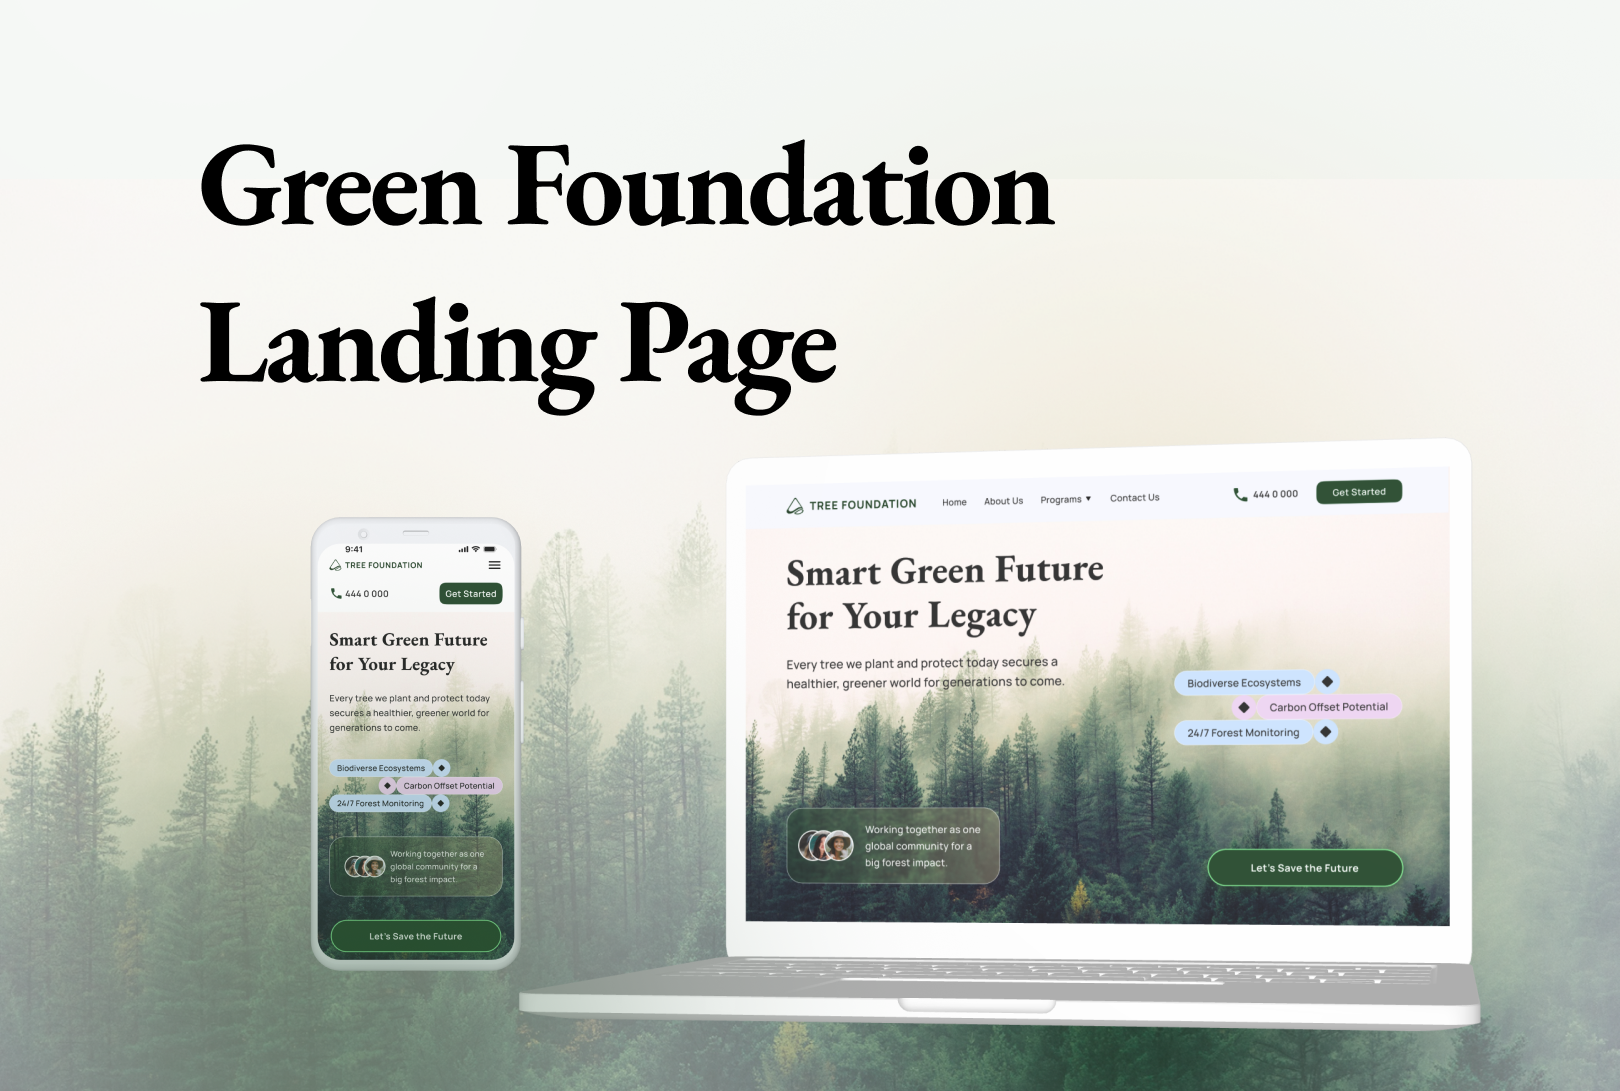
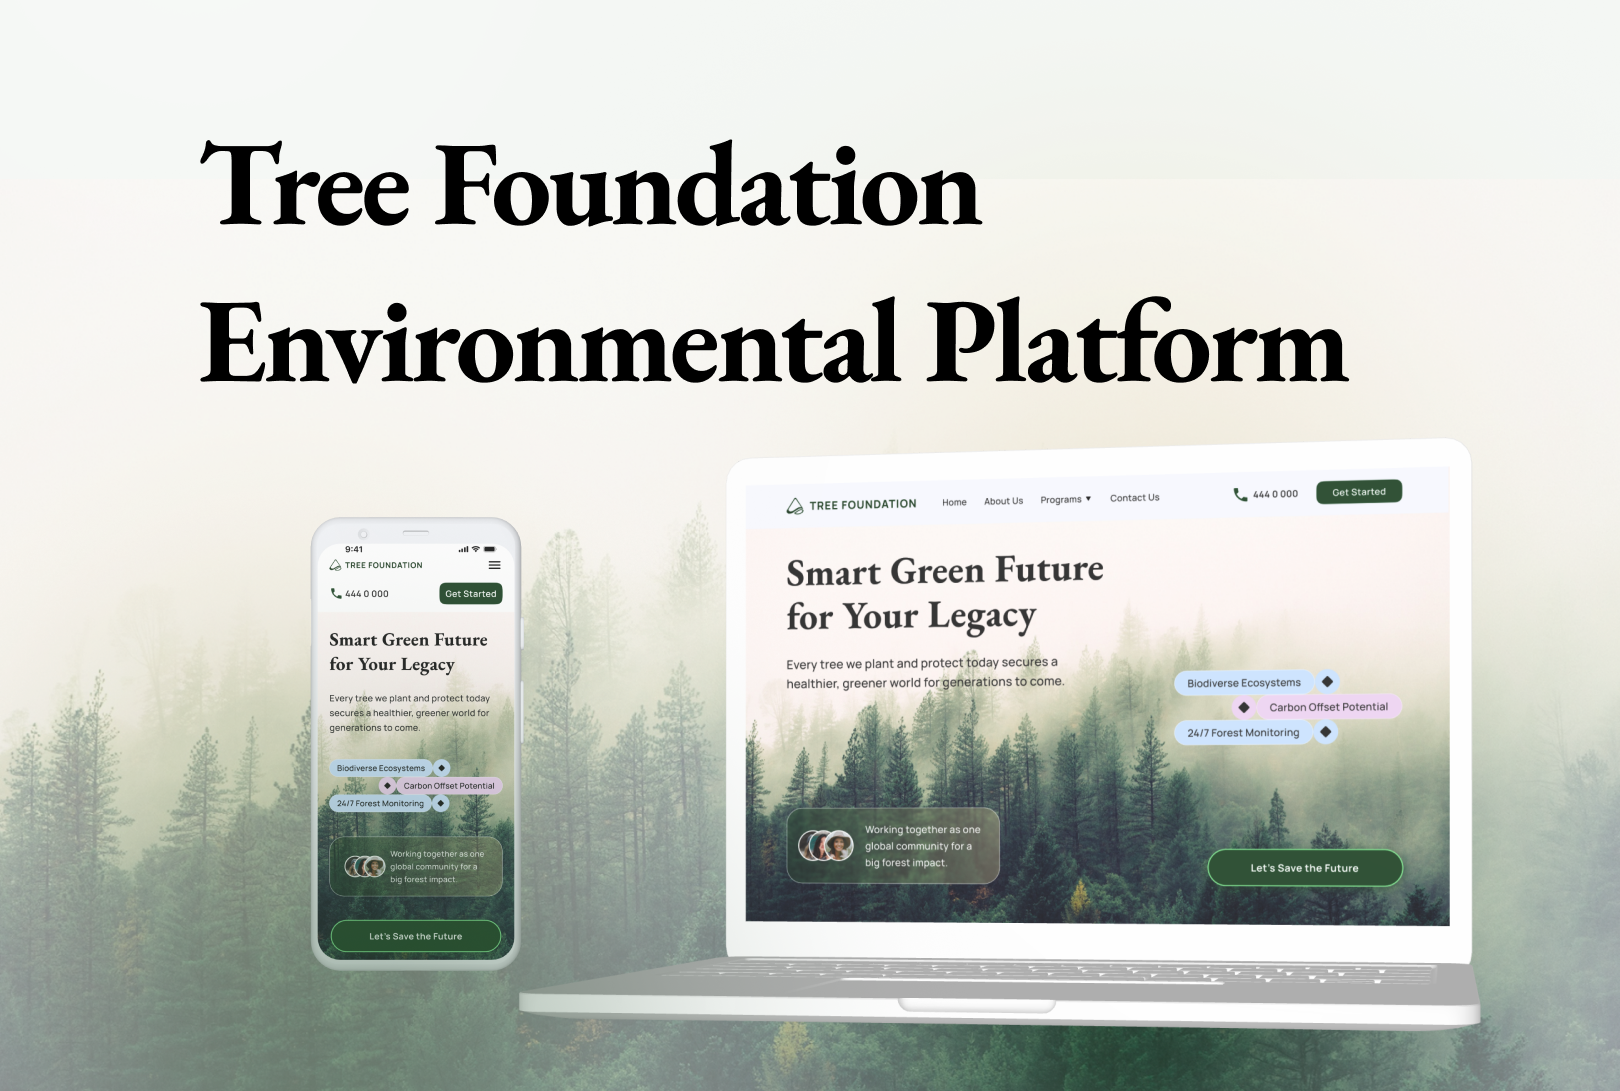
New project added

Changed region(s): [[0.1543, 0.2805, 0.8333, 0.4051], [0.1235, 0.1247, 0.6481, 0.2181]]

diff --git a/src/pages/Coding.jsx b/src/pages/Coding.jsx
@@ -21,43 +21,37 @@ const Coding = () => {
         </div>
           
           <div className='page__coding__content__card'>
-            {Code.map(({image, imagetext, title, url1, url2}, index) => (
-                <div className='page__coding__content__card__item' key={`Code-${index}`}>
-                  <div className="page__coding__content__card__item__image" key={`Code-${index}`}>
-                    <img src={image} alt={imagetext} />
-                  </div>
-                  <div className="page__coding__content__card__item__title">
-                    <span>{title}</span>
-                  </div>
-                  <div className='page__coding__content__card__button'>
-                 
-                        <a href={url2}  rel="noreferrer noopenner" target="_blank" className='button link'>
-                            <span className="label">
-                              <i className='fa fa-github'></i>
-                            </span>
-                            <span className="area">
-                                <span></span>
-                            </span>
-                          
-                        </a>
-                 
-                  
-                        <a href={url1}  rel="noreferrer noopenner" target="_blank" className='button link'>
-                            <span className="label">
-                                View
-                            </span>
-                            <span className="area">
-                                <span></span>
-                            </span>
-                        </a>
-                      
-                
-                   
-                  </div>
-          
-                  </div>
-              
-            )).reverse()}
+            {Code.map(({ image, imagetext, title, url1, url2, url3 }, index) => (
+  <div className='page__coding__content__card__item' key={`Code-${index}`}>
+    <div className='page__coding__content__card__item__image'>
+      <img src={image} alt={imagetext} />
+    </div>
+    <div className='page__coding__content__card__item__title'>
+      <span>{title}</span>
+    </div>
+    <div className='page__coding__content__card__button'>
+      {url2 && (
+        <a href={url2} rel="noreferrer noopener" target="_blank" className='button link'>
+          <span className="label"><i className="fa fa-github"></i></span>
+          <span className="area"><span></span></span>
+        </a>
+      )}
+      {url1 && (
+        <a href={url1} rel="noreferrer noopener" target="_blank" className='button link'>
+          <span className="label">View</span>
+          <span className="area"><span></span></span>
+        </a>
+      )}
+      {url3 && (
+        <a href={url3} rel="noreferrer noopener" target="_blank" className='button link'>
+          <span className="label"><i className='fa fa-behance'></i></span>
+          <span className="area"><span></span></span>
+        </a>
+      )}
+    </div>
+  </div>
+)).reverse()}
+
           </div>
       </div>
     </section>
